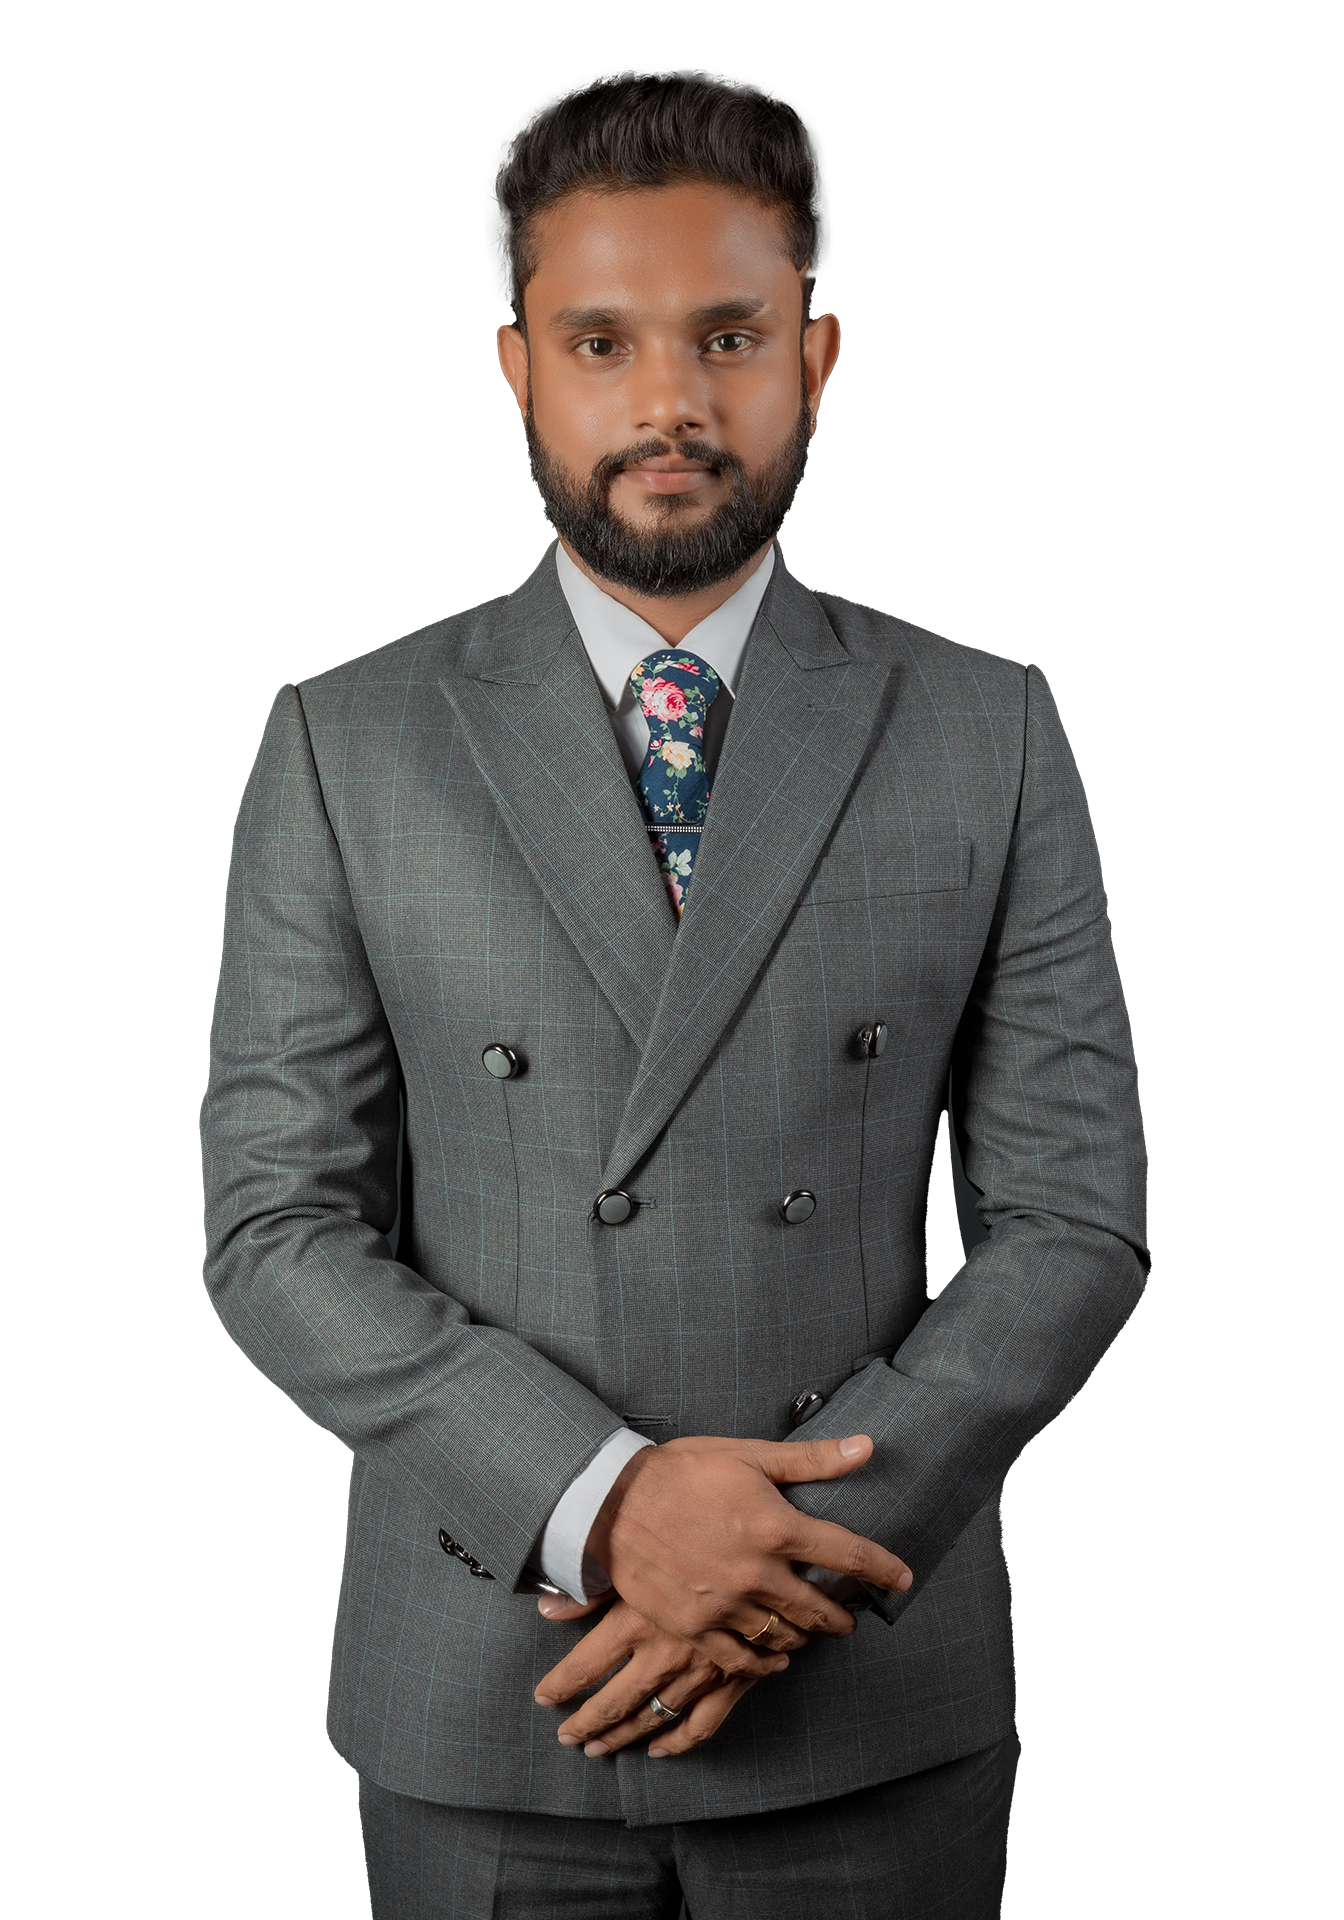
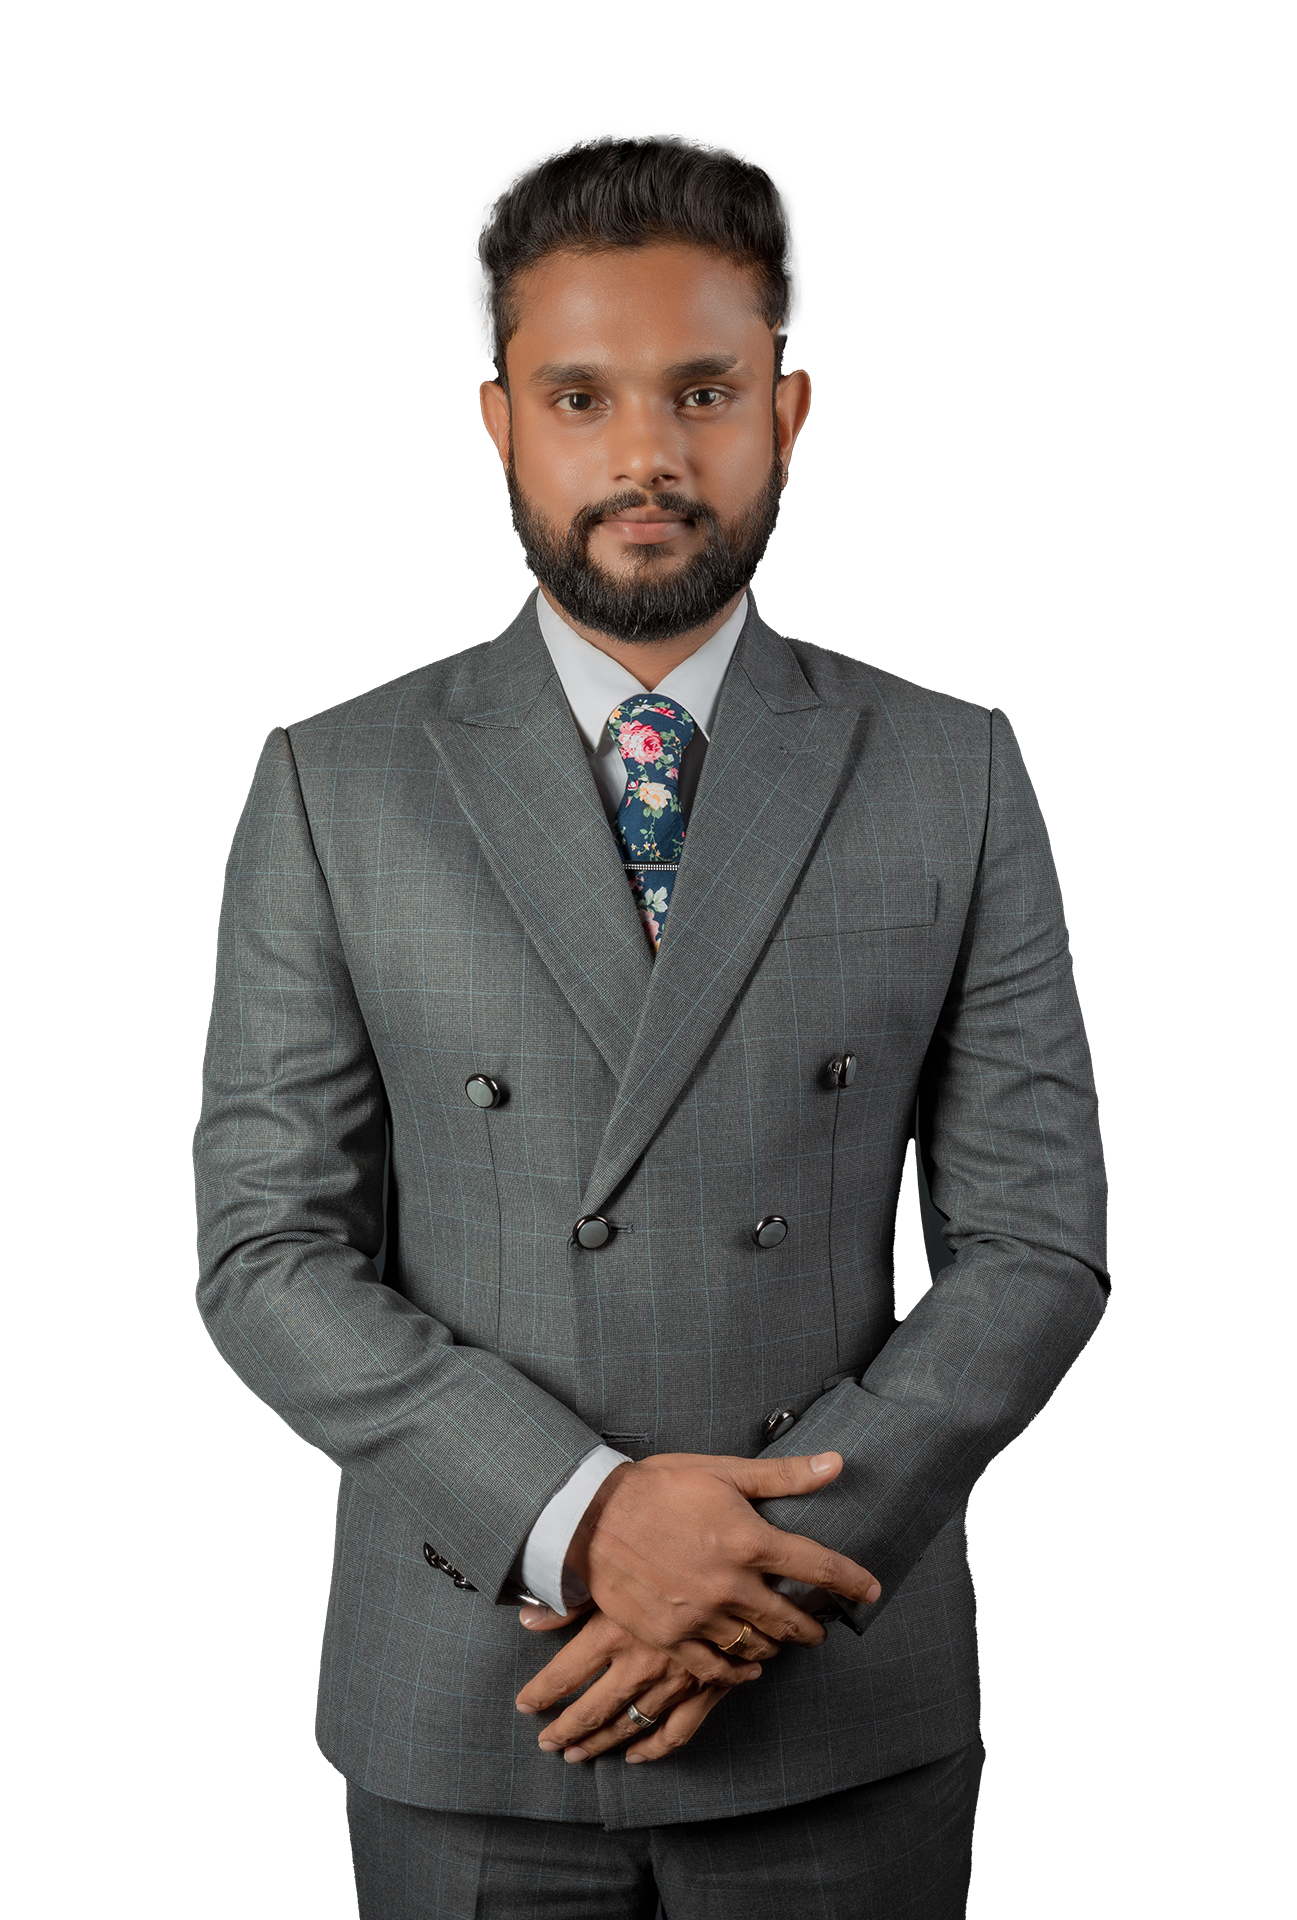
send message image change

Changed region(s): [[0.1234, 0.0312, 0.8635, 0.9375], [0.7093, 0.7812, 0.7402, 0.8125]]

diff --git a/index.html b/index.html
@@ -763,7 +763,7 @@
           </div>
 
           <div class="col-md-6 d-flex">
-          	<div class="img" style="background-image: url(images/IMD_0003.png);"></div>
+          	<div class="img" style="background-image: url(images/IMD_0026.png);"></div>
           </div>
         </div>
       </div>
